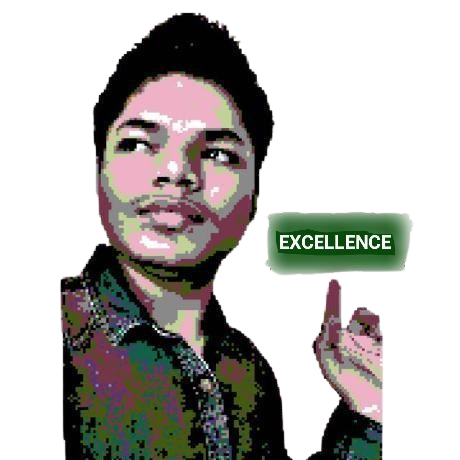
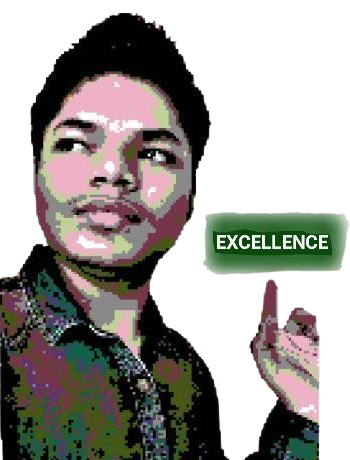
mobile mavigation

diff --git a/src/components/intro/intro.css b/src/components/intro/intro.css
@@ -1,6 +1,6 @@
 #intro{
     height:calc(100vh-4rem);
-    width:100vw;
+    width:125vw;
     max-width: 75rem;
     margin: 0 auto;
     overflow: hidden;
@@ -50,4 +50,17 @@
     object-fit: cover;
     margin: 0 0.25rem;
     height: 2rem;
+}
+
+@media only screen and (max-device-width: 480px)
+{
+    .bg{
+        position: absolute;
+        top: -2rem;
+        right:0;
+        z-index: -1;
+        object-fit: cover;
+        height: 75vh;
+        
+    }
 }

diff --git a/public/index.html b/public/index.html
@@ -1,6 +1,7 @@
 <!DOCTYPE html>
 <html lang="en">
   <head>
+    <meta name="viewport" content="width=device-width, initial-scale=1.0">
     <meta charset="utf-8" />
     <link rel="icon" href="./logo.jpg" />
     <link rel="stylesheet" href="./style.css"/>
